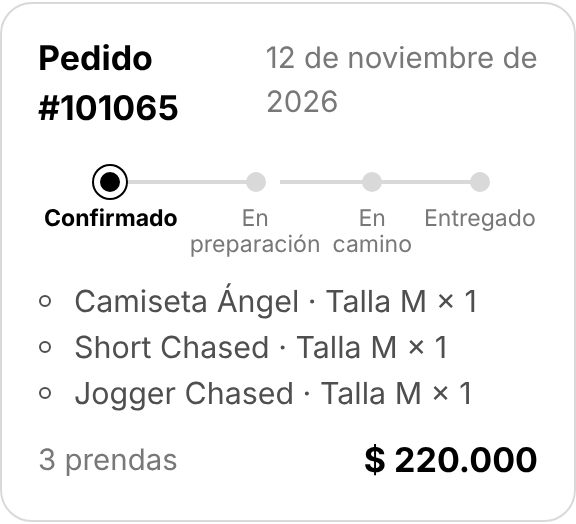
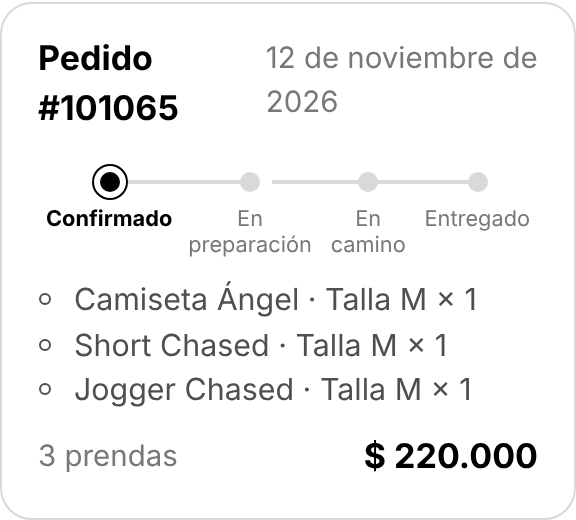
fix: más aire entre los pasos del pedido
Claude-Session: https://claude.ai/code/session_011iXxaEKKCnFZxZd4QjpdvR

diff --git a/css/styles.css b/css/styles.css
@@ -1330,8 +1330,8 @@ body.fondo-quieto {
 
 .pasos-pedido li {
   position: relative;
-  padding: 20px 3px 0; /* los 3px laterales evitan que dos nombres se peguen */
-  font-size: 0.72rem;
+  padding: 20px 4px 0; /* el aire lateral evita que dos nombres se peguen */
+  font-size: 0.68rem;
   line-height: 1.2;
   text-align: center;
   color: var(--gris-medio);
